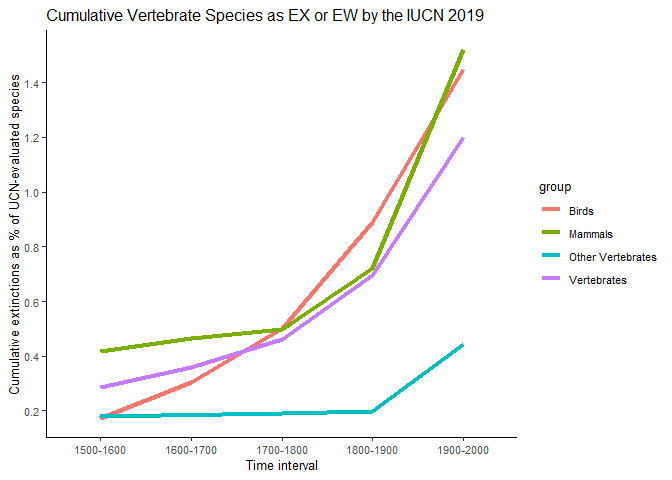
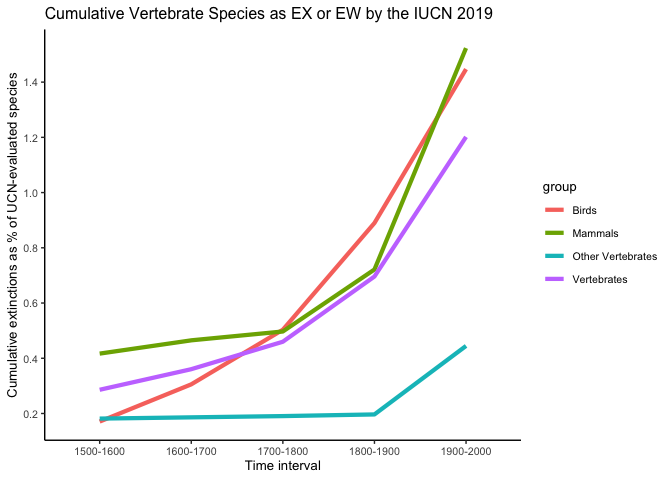
Initial Commit for Project

diff --git a/assignment/extinction-assignment.md b/assignment/extinction-assignment.md
@@ -33,7 +33,7 @@ extinction rates from including and excluding NA values.
 ## Additional references:
 
   - <http://www.hhmi.org/biointeractive/biodiversity-age-humans> (Video)
-  - [Barnosky et al. (2011)](http://doi.org/10.1038/nature09678)
+  - [Barnosky et al. (2011)](http://doi.org/10.1038/nature09678)
   - [Pimm et al (2014)](http://doi.org/10.1126/science.1246752)
   - [Sandom et al (2014)](http://dx.doi.org/10.1098/rspb.2013.3254)
 
@@ -61,7 +61,8 @@ species published.
 all_results <- map(all_pages, GET)
 ```
 
-Let’s look at the names of the data.
+Let’s look at the names of the
+data.
 
 ``` r
 row <- all_results[[1]] %>% content() %>% getElement("result") %>% getElement(1)
@@ -69,10 +70,9 @@ names(row)
 ```
 
 ``` 
- [1] "taxonid"         "kingdom_name"    "phylum_name"    
- [4] "class_name"      "order_name"      "family_name"    
- [7] "genus_name"      "scientific_name" "infra_rank"     
-[10] "infra_name"      "population"      "category"       
+ [1] "taxonid"         "kingdom_name"    "phylum_name"     "class_name"     
+ [5] "order_name"      "family_name"     "genus_name"      "scientific_name"
+ [9] "infra_rank"      "infra_name"      "population"      "category"       
 ```
 
 Using the names we got above, here we turn the data into “rectangular”
@@ -118,7 +118,8 @@ all_species
 We can see that 989 species went extinct or extinct in the wild. Let’s
 see the unique phylums of those species. For the purpose of
 reproducibility, we will select only the species of Chordata phylum
-because they are vertebrates.
+because they are
+vertebrates.
 
 ``` r
 unique(all_species$phylum)
@@ -242,19 +243,19 @@ all_species_with_year
 ```
 
     # A tibble: 989 x 5
-       scientific_name            category phylum    class         extinct_year
-       <chr>                      <chr>    <chr>     <chr>                <dbl>
-     1 Mirogrex hulensis          EX       CHORDATA  ACTINOPTERYG~         2000
-     2 Acanthametropus pecatonica EX       ARTHROPO~ INSECTA               1600
-     3 Achatinella abbreviata     EX       MOLLUSCA  GASTROPODA            1600
-     4 Achatinella buddii         EX       MOLLUSCA  GASTROPODA            1600
-     5 Achatinella caesia         EX       MOLLUSCA  GASTROPODA            1600
-     6 Achatinella casta          EX       MOLLUSCA  GASTROPODA            1600
-     7 Achatinella decora         EX       MOLLUSCA  GASTROPODA            1600
-     8 Achatinella dimorpha       EX       MOLLUSCA  GASTROPODA            1600
-     9 Achatinella elegans        EX       MOLLUSCA  GASTROPODA            1600
-    10 Achatinella juddii         EX       MOLLUSCA  GASTROPODA            1600
-    # ... with 979 more rows
+       scientific_name            category phylum     class          extinct_year
+       <chr>                      <chr>    <chr>      <chr>                 <dbl>
+     1 Mirogrex hulensis          EX       CHORDATA   ACTINOPTERYGII         2000
+     2 Acanthametropus pecatonica EX       ARTHROPODA INSECTA                1600
+     3 Achatinella abbreviata     EX       MOLLUSCA   GASTROPODA             1600
+     4 Achatinella buddii         EX       MOLLUSCA   GASTROPODA             1600
+     5 Achatinella caesia         EX       MOLLUSCA   GASTROPODA             1600
+     6 Achatinella casta          EX       MOLLUSCA   GASTROPODA             1600
+     7 Achatinella decora         EX       MOLLUSCA   GASTROPODA             1600
+     8 Achatinella dimorpha       EX       MOLLUSCA   GASTROPODA             1600
+     9 Achatinella elegans        EX       MOLLUSCA   GASTROPODA             1600
+    10 Achatinella juddii         EX       MOLLUSCA   GASTROPODA             1600
+    # … with 979 more rows
 
 To reproduce a similar result to Ceballos’s final graph, we did the
 following - We sorted the species with extinction dates into 4 different
@@ -404,7 +405,8 @@ master_ex_table
     19         2000 Other Vertebrates    82     147       33056          0.445
 
 Lets’ visualize these maximum possible extinction rates that we
-calculated by including NA dates in the year bin of 1600.
+calculated by including NA dates in the year bin of
+1600.
 
 ``` r
 master_ex_table %>% ggplot(aes(x = factor(extinct_year), group = group, color = group)) +
@@ -442,19 +444,19 @@ all_species_noNA
 ```
 
     # A tibble: 548 x 5
-       scientific_name               category phylum    class      extinct_year
-       <chr>                         <chr>    <chr>     <chr>             <int>
-     1 Mirogrex hulensis             EX       CHORDATA  ACTINOPTE~         2000
-     2 Acipenser nudiventris         EX       CHORDATA  ACTINOPTE~         2000
-     3 Afrocyclops pauliani          EX       ARTHROPO~ MAXILLOPO~         2000
-     4 Alasmidonta robusta           EX       MOLLUSCA  BIVALVIA           2000
-     5 Alasmidonta wrightiana        EX       MOLLUSCA  BIVALVIA           2000
-     6 Alasmidonta mccordi           EX       MOLLUSCA  BIVALVIA           2000
-     7 Alburnus akili                EX       CHORDATA  ACTINOPTE~         2000
-     8 Alcelaphus buselaphus ssp. b~ EX       CHORDATA  MAMMALIA           2000
-     9 Pholidoscelis cineraceus      EX       CHORDATA  REPTILIA           2000
-    10 Aphanius splendens            EX       CHORDATA  ACTINOPTE~         2000
-    # ... with 538 more rows
+       scientific_name                  category phylum     class       extinct_year
+       <chr>                            <chr>    <chr>      <chr>              <int>
+     1 Mirogrex hulensis                EX       CHORDATA   ACTINOPTER…         2000
+     2 Acipenser nudiventris            EX       CHORDATA   ACTINOPTER…         2000
+     3 Afrocyclops pauliani             EX       ARTHROPODA MAXILLOPODA         2000
+     4 Alasmidonta robusta              EX       MOLLUSCA   BIVALVIA            2000
+     5 Alasmidonta wrightiana           EX       MOLLUSCA   BIVALVIA            2000
+     6 Alasmidonta mccordi              EX       MOLLUSCA   BIVALVIA            2000
+     7 Alburnus akili                   EX       CHORDATA   ACTINOPTER…         2000
+     8 Alcelaphus buselaphus ssp. buse… EX       CHORDATA   MAMMALIA            2000
+     9 Pholidoscelis cineraceus         EX       CHORDATA   REPTILIA            2000
+    10 Aphanius splendens               EX       CHORDATA   ACTINOPTER…         2000
+    # … with 538 more rows
 
 Our table without the rows of NA values for extinct year now has only
 548 species. This number is only around 58% of all extinct species.
@@ -504,7 +506,12 @@ master_noNA <- all_types_noNa %>%
 master_ex_table <- master_ex_table %>%
   select(extinct_year, group, sum_species, perc_ex_withNA) %>%
   mutate(perc_ex_noNA = master_noNA$perc_extinct_noNA)
-  
+```
+
+    Warning in inds_combine(.vars, ind_list): '.Random.seed[1]' is not a valid
+    integer, so ignored
+
+``` r
 master_ex_table
 ```
 
@@ -534,12 +541,13 @@ master_ex_table
 ```
 
 Lets’ visualize the extinction percentages that we calculated excluding
-extinction records that had NA values for extinction dates.
+extinction records that had NA values for extinction
+dates.
 
 ``` r
 master_ex_table %>% ggplot(aes(x = factor(extinct_year), group = group, color = group)) +
-  geom_line(aes(y = perc_ex_withNA), lwd = 1.5) +
-  geom_line(aes(y = perc_ex_noNA), linetype = "dashed") +
+  geom_line(aes(y = perc_ex_withNA), lwd = 1.0) +
+  geom_line(aes(y = perc_ex_noNA), lwd = 1.0, linetype = "dashed") +
   labs(title = "Cumulative Vertebrate Species as EX or EW by the IUCN 2019",
        y = 'Cumulative extinctions as % of UCN-evaluated species',
        x = "Time interval") + 
@@ -655,28 +663,27 @@ master_ex_table
 ```
 
     # A tibble: 19 x 6
-       extinct_year group sum_species perc_ex_withNA perc_ex_noNA
-              <dbl> <chr>       <int>          <dbl>        <dbl>
-     1         1600 Birds       11126          0.171      0.0539 
-     2         1700 Birds       11126          0.306      0.189  
-     3         1800 Birds       11126          0.503      0.386  
-     4         1900 Birds       11126          0.890      0.773  
-     5         2000 Birds       11126          1.45       1.33   
-     6         1600 Mamm~        6237          0.417      0.0160 
-     7         1700 Mamm~        6237          0.465      0.0641 
-     8         1800 Mamm~        6237          0.497      0.0962 
-     9         1900 Mamm~        6237          0.722      0.321  
-    10         2000 Mamm~        6237          1.52       1.12   
-    11         1600 Vert~       24135          0.286      0.0290 
-    12         1700 Vert~       24135          0.360      0.104  
-    13         1800 Vert~       24135          0.460      0.203  
-    14         1900 Vert~       24135          0.696      0.439  
-    15         2000 Vert~       24135          1.20       0.945  
-    16         1600 Othe~       33056          0.182      0.00908
-    17         1800 Othe~       33056          0.191      0.0182 
-    18         1900 Othe~       33056          0.197      0.0242 
-    19         2000 Othe~       33056          0.445      0.272  
-    # ... with 1 more variable: perc_ex_uncertain <dbl>
+       extinct_year group   sum_species perc_ex_withNA perc_ex_noNA perc_ex_uncerta…
+              <dbl> <chr>         <int>          <dbl>        <dbl>            <dbl>
+     1         1600 Birds         11126          0.171      0.0539            0.0973
+     2         1700 Birds         11126          0.306      0.189             0.243 
+     3         1800 Birds         11126          0.503      0.386             0.357 
+     4         1900 Birds         11126          0.890      0.773             0.698 
+     5         2000 Birds         11126          1.45       1.33              1.01  
+     6         1600 Mammals        6237          0.417      0.0160            0.0289
+     7         1700 Mammals        6237          0.465      0.0641            0.0868
+     8         1800 Mammals        6237          0.497      0.0962            0.0579
+     9         1900 Mammals        6237          0.722      0.321             0.405 
+    10         2000 Mammals        6237          1.52       1.12              1.45  
+    11         1600 Verteb…       24135          0.286      0.0290            0.0523
+    12         1700 Verteb…       24135          0.360      0.104             0.135 
+    13         1800 Verteb…       24135          0.460      0.203             0.179 
+    14         1900 Verteb…       24135          0.696      0.439             0.426 
+    15         2000 Verteb…       24135          1.20       0.945             0.912 
+    16         1600 Other …       33056          0.182      0.00908           0.0164
+    17         1800 Other …       33056          0.191      0.0182            0.0164
+    18         1900 Other …       33056          0.197      0.0242            0.0109
+    19         2000 Other …       33056          0.445      0.272             0.448 
 
 Lets’ put these results on multiple graphs to observe the differences,
 we have delved deeper into the data and explored different permutations
@@ -711,13 +718,13 @@ different extinction rates.
 
 ``` r
 plot1 <- master_ex_table %>% filter(group == "Birds") %>%
-  ggplot(aes(x = extinct_year)) +
-  geom_line(aes(y = perc_ex_withNA), linetype = "dotdash", lwd=1.2, alpha =0.5, color = "navy") +
-  geom_line(aes(y = perc_ex_noNA), linetype = "dashed", lwd=1.2, alpha =0.7, color = "red") +
+  ggplot(aes(x = extinct_year), color = "blue") +
+  geom_line(aes(y = perc_ex_withNA), linetype = "dotdash", lwd=1.2, alpha =0.5) +
+  geom_line(aes(y = perc_ex_noNA), linetype = "dashed", lwd=1.2, alpha =0.7) +
   geom_line(aes(y = perc_ex_uncertain), linetype = "solid", lwd=1.7, alpha = 0.5) +
   labs(title = "Birds",
        y = 'Cumulative extinctions %',
-       x = "Time interval")
+       x = "Time interval") 
 
 plot2 <- master_ex_table %>% filter(group == "Mammals") %>%
   ggplot(aes(x = extinct_year)) +
